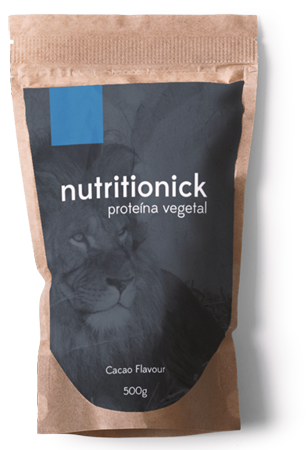
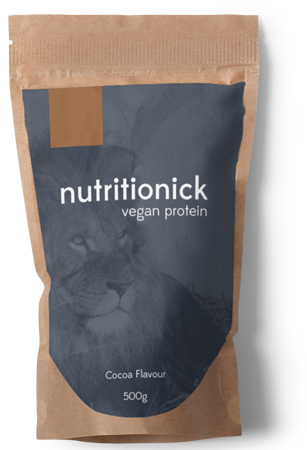
Improves images and layout for mobile version

diff --git a/css/responsive.css b/css/responsive.css
@@ -82,11 +82,12 @@
   }
 
   #home-slider {
-    margin-top: 30px;
+    /*margin-top: 30px;*/
   }
 
   #home-slider .main-slider {
-    height: 250px;
+    height: auto;
+    text-align: center;
   }
 
   #home-slider .slide-text {
@@ -98,32 +99,15 @@
     margin-top: 0;
   }
 
-  #home-slider .slider-hill {
-    width: 400px;
-  }
-
   #home-slider .slider-house {
     width: 250px;
     right: 90px;
     bottom: -20px;
   }
 
-  #home-slider .slider-sun {
+  #home-slider .slider-protein-2 {
     right: 255px;
     bottom: 65px;
-    width: 60px
-  }
-
-  #home-slider .slider-birds1 {
-    right: 320px;
-    bottom: 60px;
-    width: 70px;
-  }
-
-  #home-slider .slider-birds2 {
-    right: 0;
-    bottom: 90px;
-    width: 80px;
   }
 
   /*Pricing Table*/
@@ -192,8 +176,9 @@
 /* xs */
 @media only screen and (max-width : 768px) {
 
-  h1{
+  h1 {
     font-size: 22px;
+    text-align: center;
   }
 
   h2{
@@ -205,8 +190,12 @@
   }
 
   #header {
-    padding-bottom: 40px;
+    padding-bottom: 20px;
     padding-top: 10px;
+  }
+
+  #header .navbar-brand {
+    float: none;
   }
 
   .social-icons.pull-right{
@@ -232,7 +221,7 @@
   #header .navbar-inverse .navbar-toggle:hover .icon-bar {
     background: #fff;
   }
- 
+
   .navbar-inverse .navbar-collapse,
   .navbar-inverse .navbar-form {
     border-top: 0;
@@ -266,31 +255,27 @@
     padding: 5px 10px;
   }
 
-  #header .navbar-inverse .navbar-nav li.active > a, 
-  #header .navbar-inverse .navbar-nav li.active > a:focus, 
+  #header .navbar-inverse .navbar-nav li.active > a,
+  #header .navbar-inverse .navbar-nav li.active > a:focus,
   #header .navbar-nav.navbar-right li > a:hover {
     border: none;
   }
 
-
   #home-slider {
-    margin: 50px 20px;
-  }
-
-  #home-slider .main-slider {
-    height: 500px;
+    padding: 20px;
   }
 
   #home-slider .slide-text {
     top: 0;
     width: 100%;
     text-align: center;
+    position: inherit;
   }
 
-
-  #home-slider .slider-hill {
+  #home-slider .slider-protein {
     right: 50%;
-    margin-right: -200px;
+    margin-top: 20px;
+    position: initial;
   }
 
   #home-slider .slider-house {
@@ -298,9 +283,9 @@
     margin-right: -125px;
   }
 
-  #home-slider .slider-sun {
-    right: 50%;
-    margin-right: 60px;
+  #home-slider .slider-protein-2 {
+    margin-top: 20px;
+    position: initial;
   }
 
   #home-slider .slider-birds1 {
@@ -413,7 +398,7 @@
     padding-right: 15px;
   }
 
-  .nav.nav-justified.post-nav li, 
+  .nav.nav-justified.post-nav li,
   .nav.navbar-nav.post-nav li{
     display: inline-block;
     margin-right: 15px;
@@ -496,7 +481,7 @@
     font-size: 25px;
   }
 
-  #countdown li.angle-one span.minutes, 
+  #countdown li.angle-one span.minutes,
   #countdown li.angle-one .minute {
     margin-left: 0
   }
@@ -608,7 +593,7 @@
     font-size: 25px;
   }
 
-  #countdown li.angle-one span.minutes, 
+  #countdown li.angle-one span.minutes,
   #countdown li.angle-one .minute {
     margin-left: 0
   }

diff --git a/index.html b/index.html
@@ -46,8 +46,8 @@
                       La proteína de <strong>nutritionick&reg;</strong> es 100% vegetal y completa, contiene todos los aminoácidos esenciales (Histidina, Isoleucina, Leucina, Lisina, Metionina, Fenilalanina, Treonina, Triptófano, Valina).</p>
                       <a href="#clients" class="btn btn-common">PEDIR UNA MUESTRA GRATUITA</a>
                   </div>
-                  <img src="images/protein.png" class="slider-protein" alt="slider image">
-                  <img src="images/protein_2.png" class="slider-protein-2" alt="slider image">
+                  <img src="images/protein.png" class="slider-protein" alt="Vegan protein Cocoa Flavour">
+                  <img src="images/protein_2.png" class="slider-protein-2" alt="Vegan protein Cocoa Flavour">
               </div>
           </div>
       </div>
